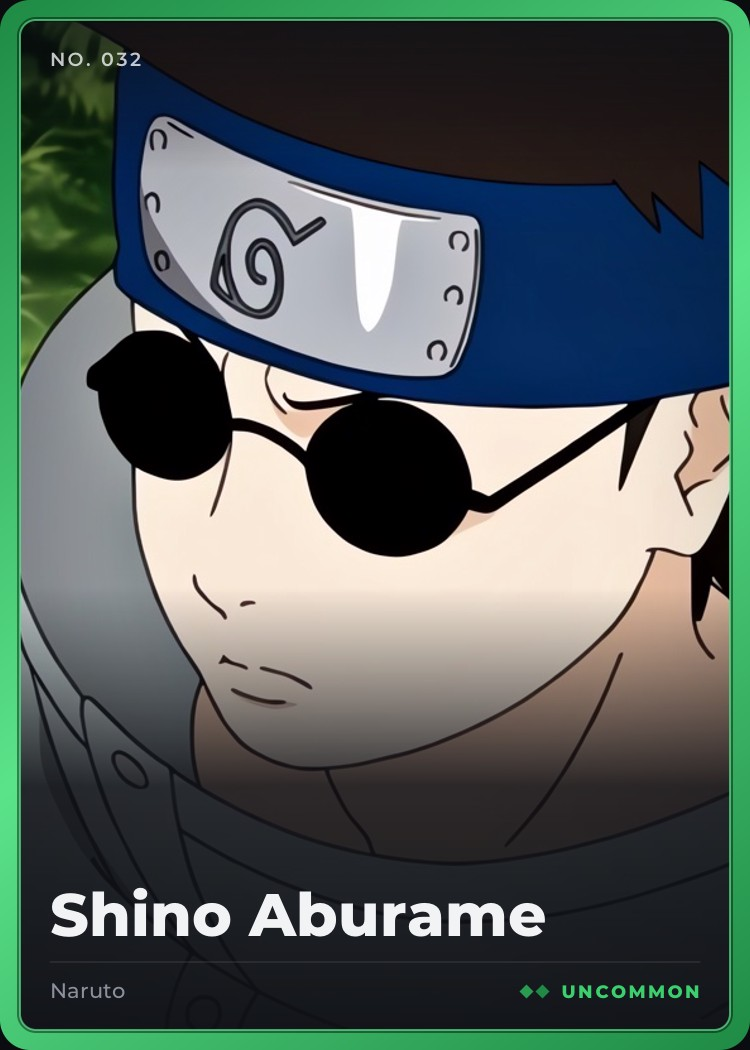
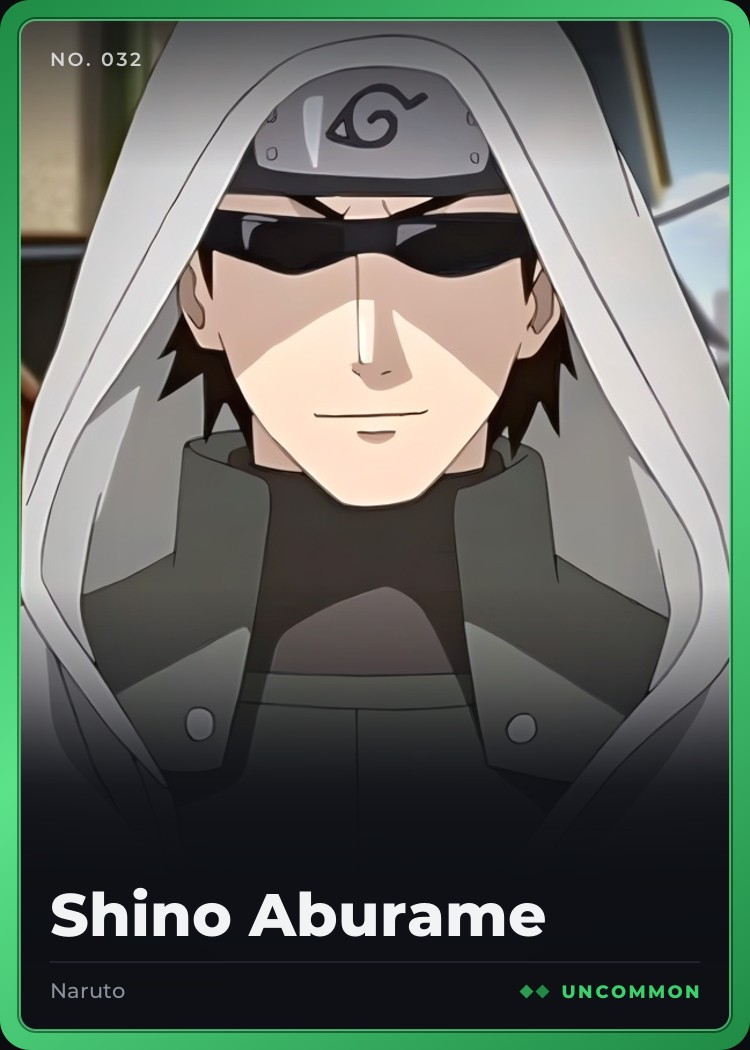
Add Will of Fire booster pack picture and new art for WOF 011 Shino
process-pack.sh also draws the set's booster pack from raw/packs/<SET>/pack.png

diff --git a/README.md b/README.md
@@ -32,3 +32,7 @@ saves it to `raw/packs/<SET>/art/`, and re-renders all of the set's cards into `
 To redo a card's art, delete `raw/packs/<SET>/art/<NNN>.jpg` and run the script again.
 Portrait images with some space above the head look best: tall art fills the whole card, wider art fills the top and
 fades into the name panel.
+
+**Booster pack picture:** `images/packs/<SET>/pack.jpg`. Put the pack's key art in `raw/packs/<SET>/pack.png`;
+art on a plain white background works best, since the white around the characters is cut out. The pack's foil colours
+are `pack_colors` in the set's JSON. `./process-pack.sh <SET>` draws it along with the cards.
